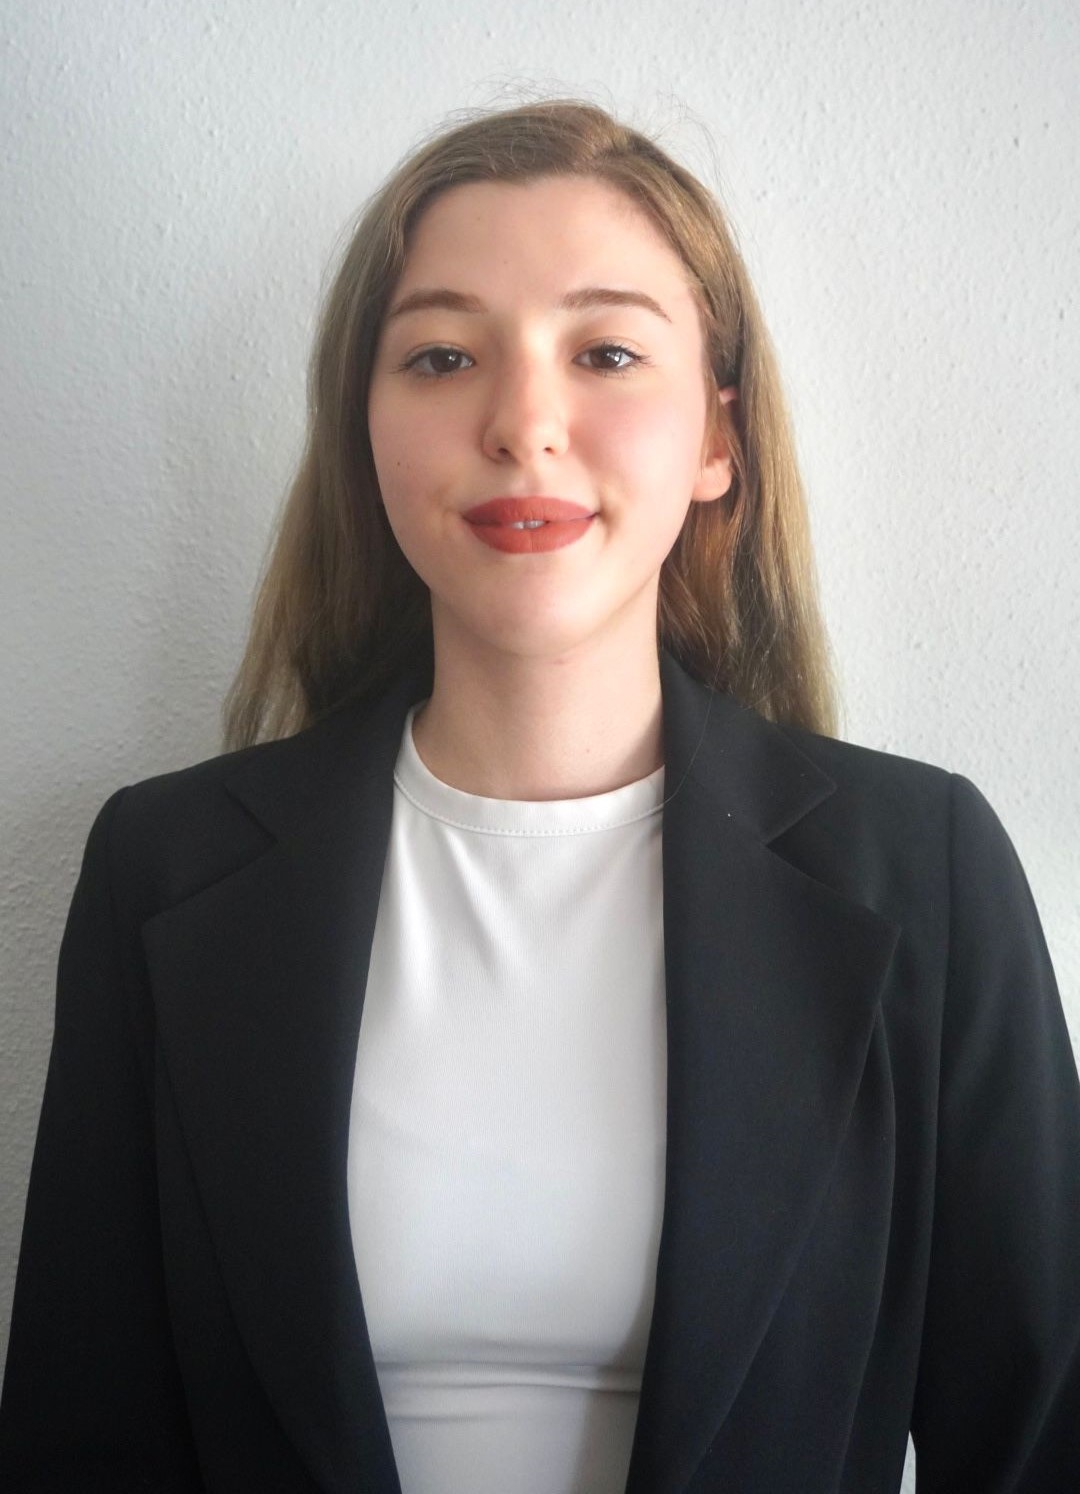
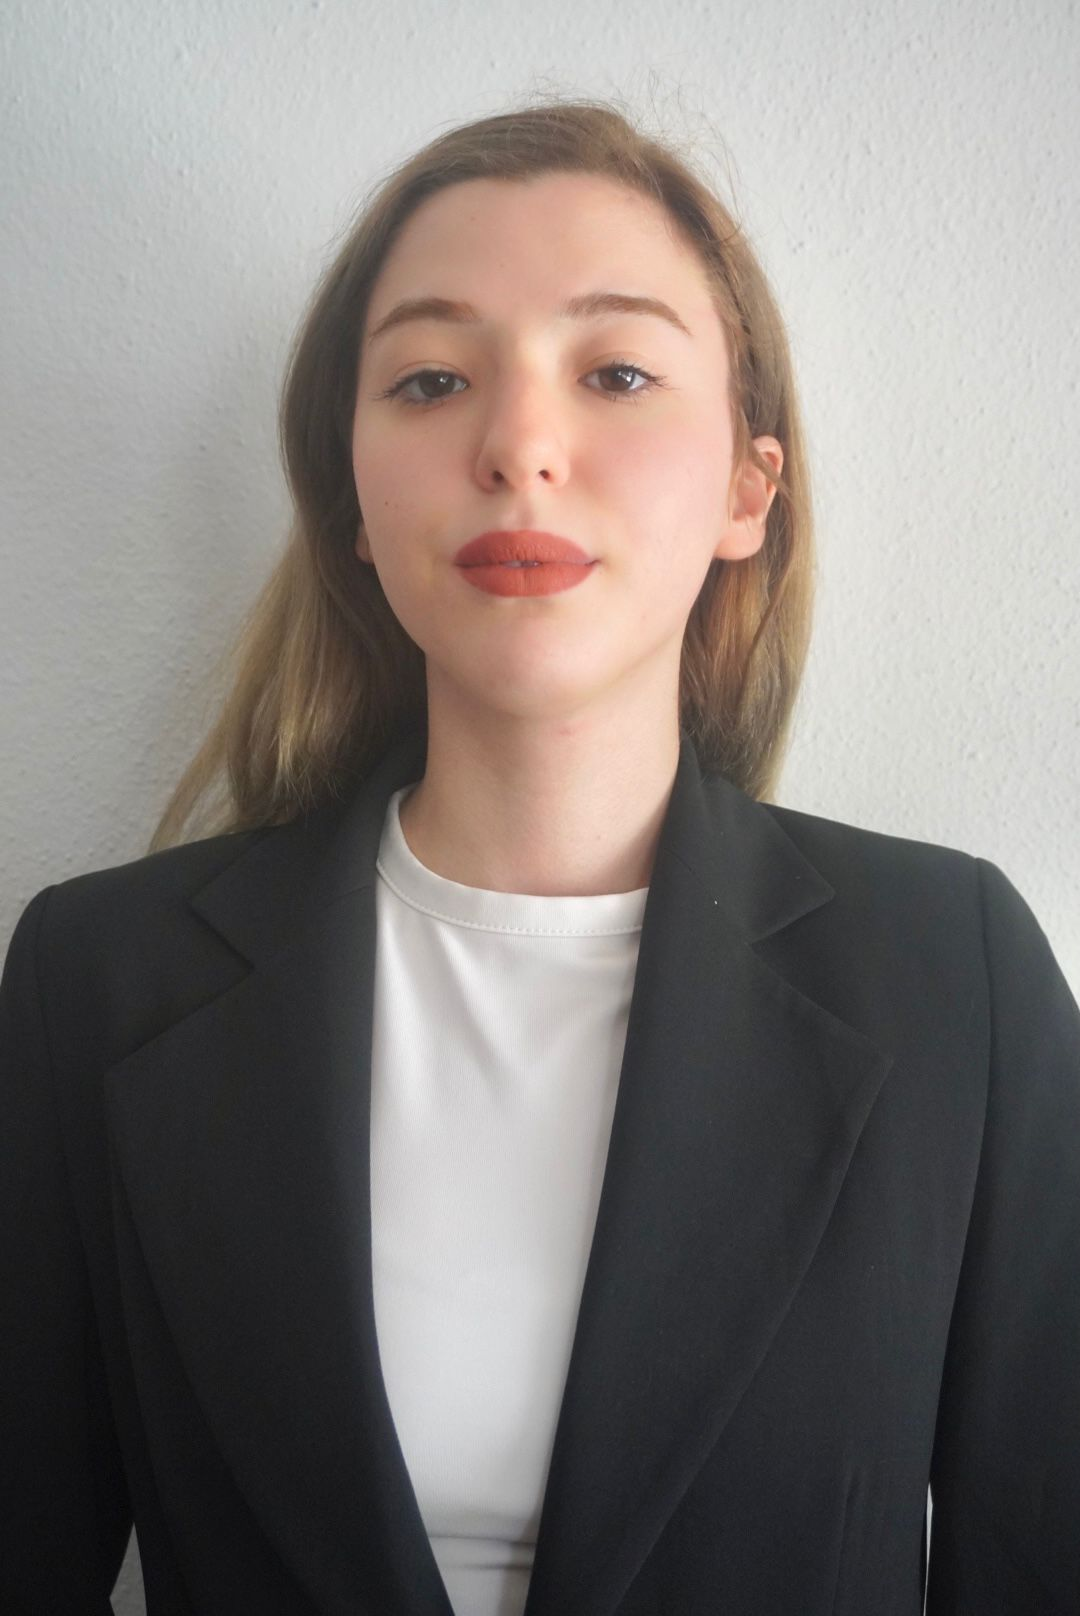
last check

diff --git a/src/pages/AboutMe/index.js b/src/pages/AboutMe/index.js
@@ -23,16 +23,19 @@ export default function AboutMe() {
       <MotionHeading
         mb={8}
         textAlign="center"
-        fontWeight="semibold"
+        fontWeight="light"
         color="#69705e"
         initial={{ opacity: 0, y: -20 }}
         animate={{ opacity: 1, y: 0 }}
         transition={{ delay: 0.2, duration: 0.6 }}
+        textDecor="underline"
+        textDecorationColor="#69705e"
+        textDecorationThickness="from-font"
       >
         Hakkımda
       </MotionHeading>
 
-      <Stack spacing={6} fontSize="md" color="#4f5446" lineHeight="1.7">
+      <Stack spacing={6} fontSize="md" color="#4f5446" lineHeight="1.7" fontWeight="light">
         {[
           "Bilgisayar Programcılığı alanında eğitim gören ve kendini sürekli geliştiren bir yazılım geliştiricisiyim. Eskişehir Teknik Üniversitesi’nde Bilgisayar Programcılığı bölümünde öğrenimimi tamamladım ve staj sürecim için aktif olarak fırsatlar arıyorum.",
           "Bunun öncesinde lisede Ömer Seyfettin Sağlık Meslek Lisesi’nden mezun oldum ve lise dönemimde 2018 Eylül - 2019 Haziran tarihleri arasında Buca Toplum Sağlığı Merkezi’nde sağlık teknikeri olarak staj yaptım. Bu deneyim, disiplin ve sorumluluk bilincimi güçlendirdi.",
@@ -71,13 +74,17 @@ export default function AboutMe() {
             animate={{ opacity: 1, y: 0 }}
             transition={{ delay: 1.5, duration: 0.6 }}
             textAlign="center"
+            fontWeight="light"
+           
           >
             İletişim
           </MotionHeading>
-          <Stack spacing={2} textAlign="center" color="#525b4a" fontWeight="medium">
+          <Stack spacing={2} textAlign="center" color="#525b4a" fontWeight="normal">
             <MotionLink
               href="mailto:mervehediyeozen98@gmail.com"
               color="#69705e"
+              textDecoration="underline"
+              textDecorationThickness="from-font"
               isExternal
               whileHover={{ scale: 1.1, color: "#4a513d" }}
               transition={{ type: "spring", stiffness: 300 }}
@@ -87,6 +94,8 @@ export default function AboutMe() {
             <MotionLink
               href="tel:+905530846947"
               color="#69705e"
+              textDecoration="underline"
+               textDecorationThickness="from-font"
               isExternal
               whileHover={{ scale: 1.1, color: "#4a513d" }}
               transition={{ type: "spring", stiffness: 300 }}

diff --git a/src/components/ProjectDetails/index.js b/src/components/ProjectDetails/index.js
@@ -326,8 +326,8 @@ export default function ProjectDetail() {
   }
 
   return (
-    <Box bg="#eff2e9">
-    <Box maxW="1350px" mx="auto" p="50px" bg="#e5ebda" border="1px" borderColor="#bfc9a9">
+    <Box bg="#eff2e9"  pt="20px">
+    <Box maxW="1350px" mx="auto" p="50px" pt="60px" bg="#e5ebda" border="1px" borderColor="#bfc9a9">
         <Flex flexDirection="row" justifyContent="space-between">
             <Box>
       <Heading mb={4} fontWeight="light" color="#767d68">{project.title}</Heading>

diff --git a/src/components/About/index.js b/src/components/About/index.js
@@ -1,5 +1,5 @@
 import { Flex, Image, Text, Heading, Stack  , Box , Button} from "@chakra-ui/react";
-import myPhoto from "../../images/me/me1.jpeg"
+import myPhoto from "../../images/me/me.jpeg"
 import { useNavigate } from "react-router-dom";
 
 function About() {
